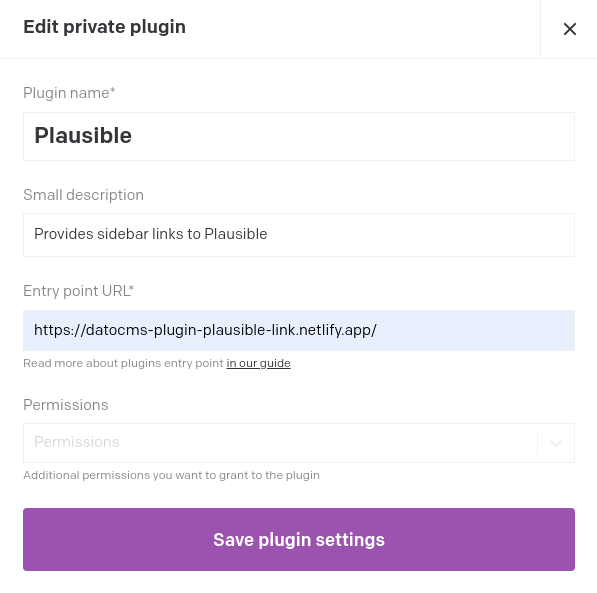
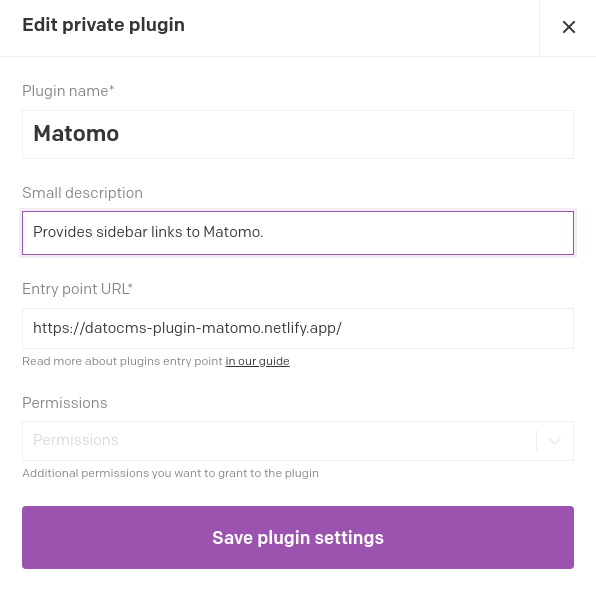
chore: update readme, add images

diff --git a/README.md b/README.md
@@ -26,19 +26,24 @@ Then click on Save plugin settings
 
 After installing the plugin, in the new settings form we must enter the parameters for our Matomo project.
 
+- **Matomo Host:** The name of our host in matomo,  
+  ex: mysite
+
 - **Matomo Site:** The name of our site in matomo,  
-  ex: mysite.com
+  ex: www.mysite.com
+
+- **Matomo Site ID:** The id of our site in matomo,  
+  ex: 1
 
 Then for each model, we'll have the following fields:
 
 - **[DATOCMS MODEL] URL Pattern:** The pattern used to construct the Matomo URL for the specified model,  
-  ex: ?page=%2f
+  ex: index.php?module=CoreHome&action=index&idSite=1&period=day&date=yesterday#?idSite=1&period=year&date=2022-02-07&segment=&category=General_Actions&subcategory=General_Pages&popover=RowAction$3ATransitions$3Aurl$3Ahttps$3A$2F$2F
 
 - **[DATOCMS MODEL] Slug Field:** The field of the specified model that will be used as slug,  
   ex: First Name
 
-The combination of the 3 parameters will be later used by the plugin to create a link, ex:  
-https://matomo.io/mysite.com?page=%2fjoakim
+The combination of the 5 parameters will be later used by the plugin to create a link.
 
 ![Plugin Parameters](./docs/plugin-settings-02.png)
 
